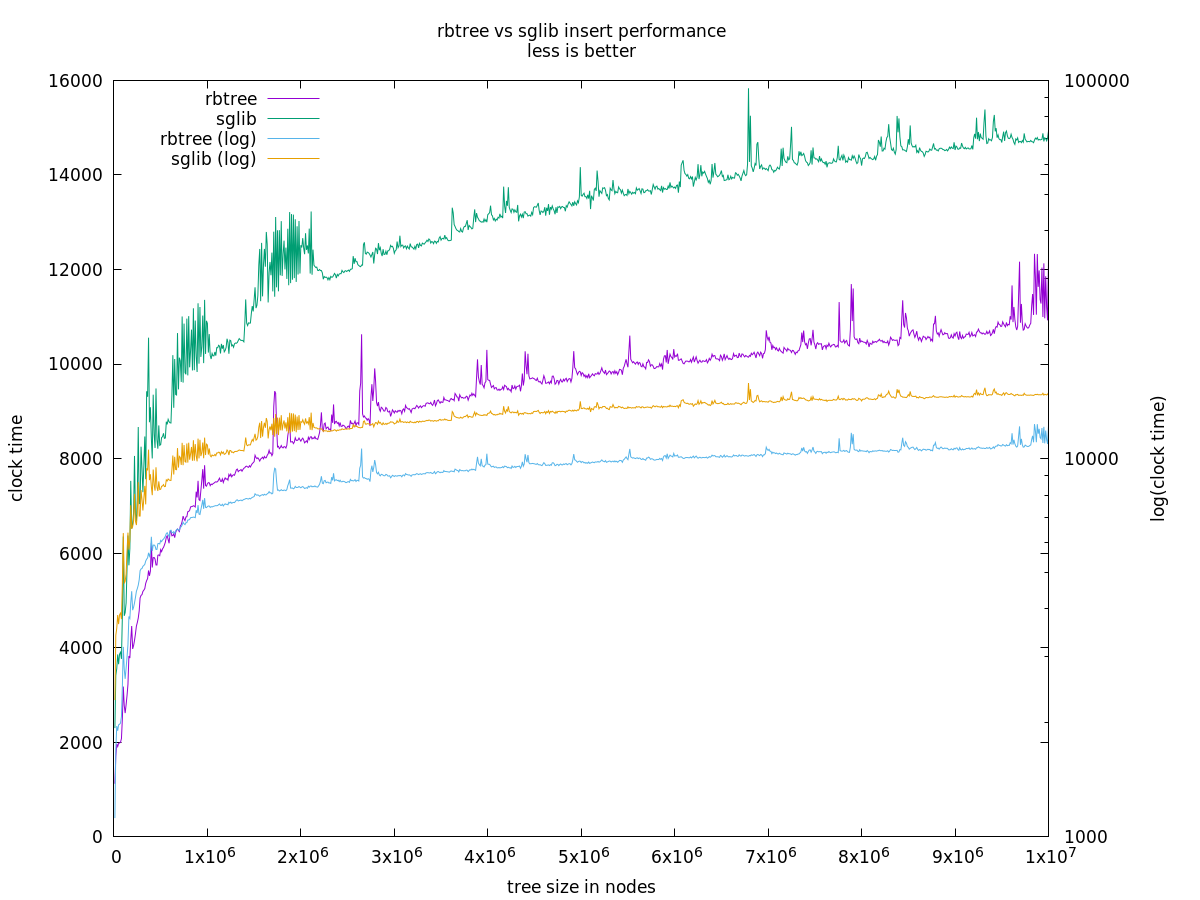
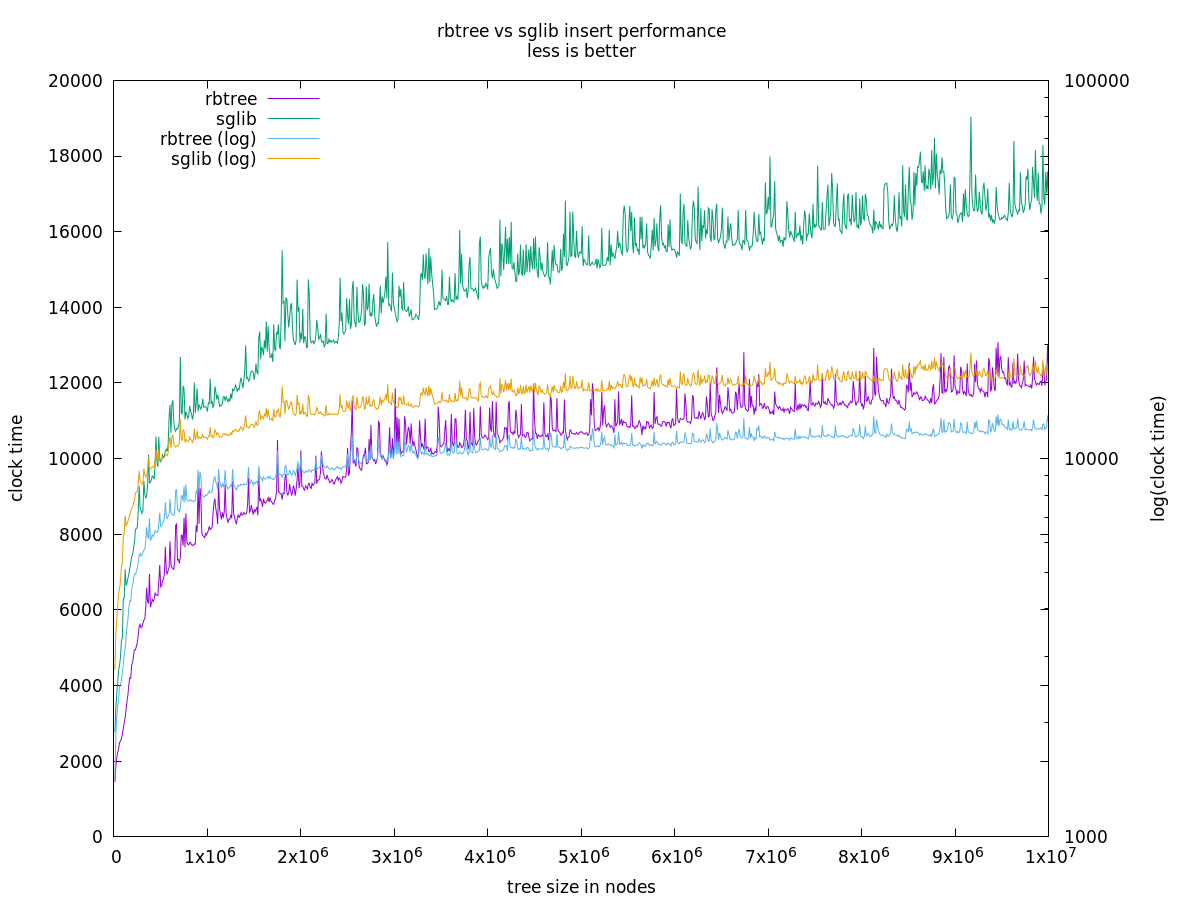
WIP

diff --git a/rbtree.h b/rbtree.h
@@ -2,8 +2,6 @@
 //
 // TODO: Review
 //
-// TODO: Recomment everything according to textbook
-//
 // TODO: Comments in with ., lists don't
 //
 // TODO: Assert message don't have periods
@@ -174,6 +172,9 @@
 // Performance
 // ===========
 //
+// I reference sglib, because it is the best and greatest I know. Kodos to
+// Marian Vittek.
+//
 // .. image:: https://github.com/ganwell/rbtree/raw/master/perf_insert.png
 //    :width: 90%
 //    :align: center
@@ -187,6 +188,14 @@
 // sglib has no delete_node. For many application a delete_node and a
 // replace_node function is handy, since the application already has the right
 // node to delete or replace.
+//
+// .. image:: https://github.com/ganwell/rbtree/raw/master/perf_replace.png
+//    :width: 90%
+//    :align: center
+//    :alt: replace
+//
+// Because we have parent pointer we can implement replace_node in constant
+// time O(1). With sglib we have to add/remove for a replacement.
 //
 // Implementation
 // ==============
@@ -243,7 +252,7 @@
 #define rb_new_context_m(cx, type) \
     typedef type cx##_type_t; \
     typedef type cx##_iter_t; \
-    extern cx##_type_t* cx##_nil_ptr; \
+    extern cx##_type_t* const cx##_nil_ptr; \
 
 
 // Comparators
@@ -537,11 +546,11 @@ do { \
 ) \
 do { \
     assert(node != nil && "Cannot insert nil node"); \
-    assert((( \
+    assert( \
         parent(node) == nil && \
         left(node) == nil && \
-        right(node) == nil \
-    ) || rb_is_black_m(color(node))) && \
+        right(node) == nil && \
+        tree != node && \
         "Node already used or not initialized" \
     ); \
     if(tree == nil) { \
@@ -982,7 +991,7 @@ do { \
         cmp \
 ) \
     cx##_type_t cx##_nil_mem; \
-    cx##_type_t* cx##_nil_ptr = &cx##_nil_mem; \
+    cx##_type_t* const cx##_nil_ptr = &cx##_nil_mem; \
     void \
     cx##_tree_init( \
             type** tree \

diff --git a/src/rbtree.rg.h b/src/rbtree.rg.h
@@ -2,8 +2,6 @@
 //
 // TODO: Review
 //
-// TODO: Recomment everything according to textbook
-//
 // TODO: Comments in with ., lists don't
 //
 // TODO: Assert message don't have periods
@@ -174,6 +172,9 @@
 // Performance
 // ===========
 //
+// I reference sglib, because it is the best and greatest I know. Kodos to
+// Marian Vittek.
+//
 // .. image:: https://github.com/ganwell/rbtree/raw/master/perf_insert.png
 //    :width: 90%
 //    :align: center
@@ -187,6 +188,14 @@
 // sglib has no delete_node. For many application a delete_node and a
 // replace_node function is handy, since the application already has the right
 // node to delete or replace.
+//
+// .. image:: https://github.com/ganwell/rbtree/raw/master/perf_replace.png
+//    :width: 90%
+//    :align: center
+//    :alt: replace
+//
+// Because we have parent pointer we can implement replace_node in constant
+// time O(1). With sglib we have to add/remove for a replacement.
 //
 // Implementation
 // ==============
@@ -243,7 +252,7 @@
 #begindef rb_new_context_m(cx, type)
     typedef type cx##_type_t;
     typedef type cx##_iter_t;
-    extern cx##_type_t* cx##_nil_ptr;
+    extern cx##_type_t* const cx##_nil_ptr;
 #enddef
 
 // Comparators
@@ -537,11 +546,11 @@ do {
 )
 do {
     assert(node != nil && "Cannot insert nil node");
-    assert(((
+    assert(
         parent(node) == nil &&
         left(node) == nil &&
-        right(node) == nil
-    ) || rb_is_black_m(color(node))) &&
+        right(node) == nil &&
+        tree != node &&
         "Node already used or not initialized"
     );
     if(tree == nil) {
@@ -982,7 +991,7 @@ do {
         cmp
 )
     cx##_type_t cx##_nil_mem;
-    cx##_type_t* cx##_nil_ptr = &cx##_nil_mem;
+    cx##_type_t* const cx##_nil_ptr = &cx##_nil_mem;
     void
     cx##_tree_init(
             type** tree

diff --git a/src/perf_delete.c b/src/perf_delete.c
@@ -90,6 +90,8 @@ main(void)
     tree = NULL;
     for(int i = 0; i < MSIZE; i++) {
         node = &mnodes[i];
+        rb_color_m(node) = 0;
+        rb_parent_m(node) = NULL;
         rb_left_m(node) = NULL;
         rb_right_m(node) = NULL;
         sglib_node_t_add(&tree, node);
@@ -107,7 +109,7 @@ main(void)
             start = clock();
         }
     }
-    assert(tree = NULL);
+    assert(tree == NULL);
     printf("\n\n");
     return 0;
 }

diff --git a/src/perf_insert.c b/src/perf_insert.c
@@ -61,7 +61,10 @@ main(void)
     tree = NULL;
     for(int i = 0; i < MSIZE; i++) {
         node = &mnodes[i];
-        my_node_init(node);
+        rb_color_m(node) = 0;
+        rb_parent_m(node) = NULL;
+        rb_left_m(node) = NULL;
+        rb_right_m(node) = NULL;
     }
     fprintf(stderr, "sglib\n");
     printf("\n\n\"sglib\"\n");

diff --git a/README.rst b/README.rst
@@ -2,8 +2,6 @@ TODO: User docu
 
 TODO: Review
 
-TODO: Recomment everything according to textbook
-
 TODO: Comments in with ., lists don't
 
 TODO: Assert message don't have periods
@@ -174,6 +172,9 @@ implementation.
 Performance
 ===========
 
+I reference sglib, because it is the best and greatest I know. Kodos to
+Marian Vittek.
+
 .. image:: https://github.com/ganwell/rbtree/raw/master/perf_insert.png
    :width: 90%
    :align: center
@@ -187,6 +188,14 @@ Performance
 sglib has no delete_node. For many application a delete_node and a
 replace_node function is handy, since the application already has the right
 node to delete or replace.
+
+.. image:: https://github.com/ganwell/rbtree/raw/master/perf_replace.png
+   :width: 90%
+   :align: center
+   :alt: replace
+
+Because we have parent pointer we can implement replace_node in constant
+time O(1). With sglib we have to add/remove for a replacement.
 
 Implementation
 ==============
@@ -243,7 +252,7 @@ Traits used by default (rb_x_m macros)
    #begindef rb_new_context_m(cx, type)
        typedef type cx##_type_t;
        typedef type cx##_iter_t;
-       extern cx##_type_t* cx##_nil_ptr;
+       extern cx##_type_t* const cx##_nil_ptr;
    #enddef
    
 Comparators
@@ -537,11 +546,11 @@ node
    )
    do {
        assert(node != nil && "Cannot insert nil node");
-       assert(((
+       assert(
            parent(node) == nil &&
            left(node) == nil &&
-           right(node) == nil
-       ) || rb_is_black_m(color(node))) &&
+           right(node) == nil &&
+           tree != node &&
            "Node already used or not initialized"
        );
        if(tree == nil) {
@@ -982,7 +991,7 @@ type
            cmp
    )
        cx##_type_t cx##_nil_mem;
-       cx##_type_t* cx##_nil_ptr = &cx##_nil_mem;
+       cx##_type_t* const cx##_nil_ptr = &cx##_nil_mem;
        void
        cx##_tree_init(
                type** tree
